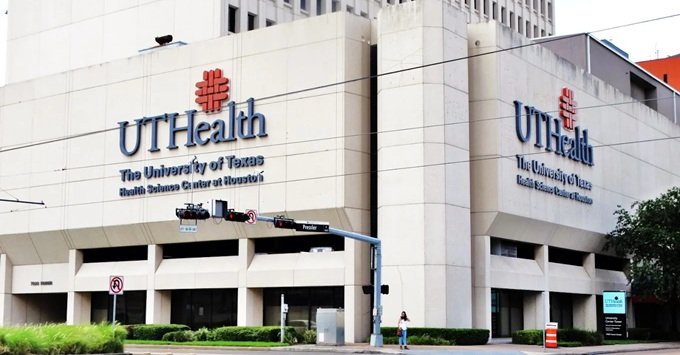
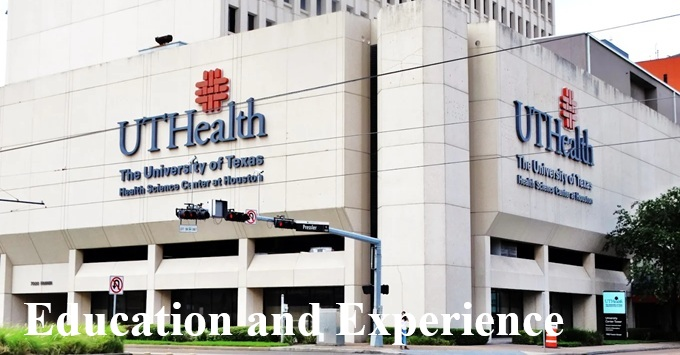
Added 'Contact' and 'Services' pages; Removed 'Contact Us' and releted chevrons from home page; Added text to 'University of Texas' image;

Changed region(s): [[0.0309, 0.8366, 0.8338, 0.9606]]

diff --git a/services.html b/services.html
@@ -14,8 +14,6 @@
     </head>
 
     <body onload="initializePage()">
-
-    <body onload="initializePage()">
         <div class="nav-bar">
             <nav class="navbar navbar-expand-lg bg-light" style="padding: 8px 15% 8px 10%">
                 <div class="container-fluid">
@@ -93,50 +91,78 @@
             </nav>
         </div>
 
-        <div class="px-4 pt-3 py-1 my-1 text-center">
-            <img src="./Images/UnivOfTexas.jpg" width=100%; alt="University of Texas Health Science Center">
+        <div class="col-lg-10 mx-auto">
+
+            <div class="px-4 pt-3 py-1 my-1 text-center">
+                <img src="./Images/Services.jpg" width=90%; alt="Services Offered">
+            </div>
+
+            <br>
+            <h1 class="px-3 pt-3 py-1 my-1">Our Services include</h1>
+            <ul>
+                <li>
+                    <b>Medication Management</b><br>
+                    Evaluation, diagnosis, and ongoing management of psychiatric medications tailored to your unique needs.
+                </li>
+
+                <br>
+
+                <li>
+                    <b>ADHD Evaluation & Treatment</b><br>
+                    Thorough ADHD assessments. Treatment includes medication options, behavioral planning, and lifestyle structure coaching.
+                </li>
+
+                <br>
+
+                <li>
+                    <b>Anxiety Disorders</b><br>
+                    We treat generalized anxiety, panic disorder, social anxiety, and PTSD-related anxiety. Treatment combines medication support, coping strategies, and functional improvement.
+                </li>
+
+                <br>
+
+                <li>
+                    <b>Depression & Mood Disorders</b><br>
+                    Support for major depressive disorder, persistent depressive disorder, postpartum depression, and seasonal depression, including medication and lifestyle guidance.
+                </li>
+
+                <br>
+
+                <li>
+                    <b>Bipolar Disorder</b><br>
+                    Evidence-based mood stabilization, monitoring, safety planning, and structured follow-ups.
+                </li>
+
+                <br>
+
+                <li>
+                    <b>Trauma & PTSD</b><br>
+                    Grounded and compassionate trauma care with medication support and coping skills development.
+                </li>
+
+                <br>
+
+                <li>
+                    <b>Insomnia & Sleep Disorders</b><br>
+                    Evaluation of underlying causes and tailored treatment plans to restore healthy sleep.
+                </li>
+
+                <br>
+
+                <li>
+                    <b>Telepsychiatry</b><br>
+                    HIPAA-compliant telemedicine accessible from your phone or laptop.
+                </li>
+            </ul>
         </div>
-        
+
+        <br>
         <hr style="margin-left:5%" width="90%">
-
-        <section class="two-column">
-            <div class="column-one">
-                <img   src="./Images/Ngozi.jpg" width="100%;" alt="Ngozi Kalu">
-            </div>
-            <div class="column-two">
-                <h2><b>About</b></h2>
-                Ngozi Kalu, PMHNP-BC, AGNP-C, is a board-certified Psychiatric Mental Health and Adult-Geriatric Nurse Practitioner 
-                with over 10 years of nursing experience, serving clients across the lifespan. She provides compassionate, evidence-based 
-                mental health care, helping individuals regain balance, clarity, and confidence in their daily lives. Ngozi welcomes both 
-                local and virtual patients into her practice, where collaboration is central to achieving the best possible healthcare outcomes.
-                She specializes in the treatment of anxiety, depression, ADHD, trauma-related conditions, sleep disorders, and other mental 
-                health concerns. 
-                <br><br>
-                Ngozi works closely with clients and their families to develop personalized treatment plans that align with 
-                each individual’s goals and values. Her approach integrates comprehensive psychiatric evaluations, thoughtful medication 
-                management, and supportive counseling to help clients feel better, think clearly, and live with purpose. She believes that 
-                true healing occurs when care is collaborative, respectful, and accessible.
-                <br><br>
-                <h2><b>Education</b></h2>
-                Ngozi holds a Post-Graduate Certificate in Psychiatric/Mental Health Nursing from Wilkes University, Wilkes-Barre, Pennsylvania. 
-                She earned her Master of Science in Nursing as an Adult-Geriatric Nurse Practitioner from the University of Texas Health Science 
-                Center in Houston, Texas, and her Bachelor of Science in Nursing from the University of Texas at Arlington. She also obtained her 
-                Associate Degree in Nursing from Lone Star College, Cypress, Texas. In addition to her clinical training, Ngozi holds a 
-                Graduate Certificate in Human Resources Management and a Master of Business Administration (MBA) from Westminster College 
-                in Salt Lake City, Utah, which strengthens her leadership, organizational, and patient&#8209;centered care delivery skills.
-                <br><br>
-                <h2><b>Personal Life</b></h2>
-                Outside of her professional life, Ngozi enjoys taking morning walks with her husband and spending quality time with her family. 
-                She values balance, wellness, and meaningful connections&#8209;principles that also guide her approach to patient care.
-
-            </div>
-        </section>
-
 
         <footer class="py-3 my-4">
             <ul class="nav justify-content-center border-bottom pb-3 mb-3">
                 <li class="nav-item"><a href="index.html" class="nav-link px-2 text-body-secondary">Home</a></li>
-                <li class="nav-item"><a href="services.html" class="nav-link px-2 text-body-secondary">Services</a></li>
+                <li class="nav-item"><a href="#" class="nav-link px-2 text-body-secondary">Services</a></li>
                 <li>
                     <a href="contact.html" class="btn btn-primary">Contact</a>
                 </li>

diff --git a/contact.html b/contact.html
@@ -14,8 +14,6 @@
     </head>
 
     <body onload="initializePage()">
-
-    <body onload="initializePage()">
         <div class="nav-bar">
             <nav class="navbar navbar-expand-lg bg-light" style="padding: 8px 15% 8px 10%">
                 <div class="container-fluid">
@@ -93,52 +91,42 @@
             </nav>
         </div>
 
-        <div class="px-4 pt-3 py-1 my-1 text-center">
-            <img src="./Images/UnivOfTexas.jpg" width=100%; alt="University of Texas Health Science Center">
+        <div class="col-lg-10 mx-auto">
+
+            <div class="px-4 pt-3 py-1 my-1 text-center">
+                <img src="./Images/ContactUs.jpg" width=90%; alt="Contact Us">
+            </div>
+
+            <br>
+            <ul>
+                <li>
+                    <b>Office (Houston/Katy)</b>: Evaluation, diagnosis, and ongoing management of psychiatric medications tailored to your unique needs.
+                </li>
+
+                <br>
+
+                <li>
+                    <b>Email:</b> myhealth@t-vcare.com
+                </li>
+
+                <br>
+
+                <li>
+                    <b>Website:</b> <a>www.t-vcare.com</a>
+                </li>
+
+            </ul>
         </div>
-        
+
+        <br>
         <hr style="margin-left:5%" width="90%">
-
-        <section class="two-column">
-            <div class="column-one">
-                <img   src="./Images/Ngozi.jpg" width="100%;" alt="Ngozi Kalu">
-            </div>
-            <div class="column-two">
-                <h2><b>About</b></h2>
-                Ngozi Kalu, PMHNP-BC, AGNP-C, is a board-certified Psychiatric Mental Health and Adult-Geriatric Nurse Practitioner 
-                with over 10 years of nursing experience, serving clients across the lifespan. She provides compassionate, evidence-based 
-                mental health care, helping individuals regain balance, clarity, and confidence in their daily lives. Ngozi welcomes both 
-                local and virtual patients into her practice, where collaboration is central to achieving the best possible healthcare outcomes.
-                She specializes in the treatment of anxiety, depression, ADHD, trauma-related conditions, sleep disorders, and other mental 
-                health concerns. 
-                <br><br>
-                Ngozi works closely with clients and their families to develop personalized treatment plans that align with 
-                each individual’s goals and values. Her approach integrates comprehensive psychiatric evaluations, thoughtful medication 
-                management, and supportive counseling to help clients feel better, think clearly, and live with purpose. She believes that 
-                true healing occurs when care is collaborative, respectful, and accessible.
-                <br><br>
-                <h2><b>Education</b></h2>
-                Ngozi holds a Post-Graduate Certificate in Psychiatric/Mental Health Nursing from Wilkes University, Wilkes-Barre, Pennsylvania. 
-                She earned her Master of Science in Nursing as an Adult-Geriatric Nurse Practitioner from the University of Texas Health Science 
-                Center in Houston, Texas, and her Bachelor of Science in Nursing from the University of Texas at Arlington. She also obtained her 
-                Associate Degree in Nursing from Lone Star College, Cypress, Texas. In addition to her clinical training, Ngozi holds a 
-                Graduate Certificate in Human Resources Management and a Master of Business Administration (MBA) from Westminster College 
-                in Salt Lake City, Utah, which strengthens her leadership, organizational, and patient&#8209;centered care delivery skills.
-                <br><br>
-                <h2><b>Personal Life</b></h2>
-                Outside of her professional life, Ngozi enjoys taking morning walks with her husband and spending quality time with her family. 
-                She values balance, wellness, and meaningful connections&#8209;principles that also guide her approach to patient care.
-
-            </div>
-        </section>
-
 
         <footer class="py-3 my-4">
             <ul class="nav justify-content-center border-bottom pb-3 mb-3">
                 <li class="nav-item"><a href="index.html" class="nav-link px-2 text-body-secondary">Home</a></li>
-                <li class="nav-item"><a href="services.html" class="nav-link px-2 text-body-secondary">Services</a></li>
+                <li class="nav-item"><a href="#" class="nav-link px-2 text-body-secondary">Services</a></li>
                 <li>
-                    <a href="contact.html" class="btn btn-primary">Contact</a>
+                    <a href="#" class="btn btn-primary">Contact</a>                    
                 </li>
             </ul>
             <p class="text-center text-body-secondary">© <span id="dateYear"></span> Tru-Value Care, LLC</p>

diff --git a/index.html b/index.html
@@ -40,7 +40,7 @@
                                 <a class="nav-link active" aria-current="page" href="#">Home</a>
                             </li>
                             <li class="nav-item">
-                                <a class="nav-link" aria-current="page" href="#">Services</a>
+                                <a class="nav-link" aria-current="page" href="services.html">Services</a>
                             </li>
                             <li class="nav-item dropdown">
                                 <a
@@ -83,7 +83,7 @@
                                 </ul>
                             </li>
                             <li>
-                                <button type="button" class="btn btn-primary">Contact</button>
+                                <a href="contact.html" class="btn btn-primary">Contact</a>
                             </li>
                         </ul>
                     </div>
@@ -93,12 +93,15 @@
 
         <div class="Hero=Section">
             <div class="px-4 pt-3 py-1 my-1 text-center">
-                <h1 class="display-5 fw-bold text-body-emphasis">Where Compassion Meets Clinical Excellence</h1>
-                <div class="col-lg-6 mx-auto">
-                    <p class="lead mb-4">
+                <h1 class="display-6 fw-bold text-body-emphasis">Supporting Individials, Families, and Communities Through Quality Mental Health Care</h1>
+                <div class="col-lg-10 mx-auto">
+                    <hr>
+                    <h2>Where Compassion Meets Clinical Excellence</h2>
+                    <p class="lead mb-3">
+                        Board-certified PMHNP-led Psychiatric/Mental Health Care
+                        
                         <hr>
-                        Board-certified PMHNP-led Psychiatric/Mental Health Care<br>
-                        <hr>
+
                         Treatment includes medication management, treatment for ADHD, anxiety, depression, 
                         trauma, bipolar disorders, insomnia, and geriatric mental health.<br>
                         Services are available both in-person and via telehealth.
@@ -178,11 +181,6 @@
                             Paragraph of text beneath the heading to explain the heading. We'll add onto it with another
                             sentence and probably just keep going until we run out of words.
                         </p>
-
-                        <a href="#" class="icon-link">
-                            Contact Us
-                            <img src="./Images/chevron-double-right.svg" alt="chevron" />
-                        </a>
                     </div>
 
                     <!-- Column 2 -->
@@ -198,22 +196,19 @@
                             Another paragraph of text for the second feature section. This can be used for services,
                             product descriptions, or any content you want to display side-by-side.
                         </p>
-
-                        <a href="#" class="icon-link">
-                            Contact Us
-                            <img src="./Images/chevron-double-right.svg" alt="chevron" />
-                        </a>
                     </div>
                 </div>
             </div>
         </div>
 
+        <hr style="margin-left:5%" width="90%">
+
         <footer class="py-3 my-4">
             <ul class="nav justify-content-center border-bottom pb-3 mb-3">
                 <li class="nav-item"><a href="#" class="nav-link px-2 text-body-secondary">Home</a></li>
-                <li class="nav-item"><a href="#" class="nav-link px-2 text-body-secondary">Services</a></li>
+                <li class="nav-item"><a href="services.html" class="nav-link px-2 text-body-secondary">Services</a></li>
                 <li>
-                    <button type="button" class="btn btn-primary">Contact</button>
+                    <a href="contact.html" class="btn btn-primary">Contact</a>
                 </li>
             </ul>
             <p class="text-center text-body-secondary">© <span id="dateYear"></span> Tru-Value Care, LLC</p>

diff --git a/our_practice.html b/our_practice.html
@@ -109,6 +109,8 @@
                 <img   src="./Images/Ngozi.jpg" width="100%;" alt="Ngozi Kalu">
             </div>
             <div class="column-two">
+                <h2><b>About</b></h2>
+
                 Ngozi Kalu, PMHNP-BC, AGNP-C, is a board-certified Psychiatric Mental Health and Adult-Geriatric Nurse Practitioner 
                 with over 10 years of nursing experience, serving clients across the lifespan. She provides compassionate, evidence-based 
                 mental health care, helping individuals regain balance, clarity, and confidence in their daily lives. Ngozi welcomes both 
@@ -121,13 +123,18 @@
                 management, and supportive counseling to help clients feel better, think clearly, and live with purpose. She believes that 
                 true healing occurs when care is collaborative, respectful, and accessible.
                 <br><br>
+
+                <h2><b>Education</b></h2>
                 Ngozi holds a Post-Graduate Certificate in Psychiatric/Mental Health Nursing from Wilkes University, Wilkes-Barre, Pennsylvania. 
                 She earned her Master of Science in Nursing as an Adult-Geriatric Nurse Practitioner from the University of Texas Health Science 
                 Center in Houston, Texas, and her Bachelor of Science in Nursing from the University of Texas at Arlington. She also obtained her 
                 Associate Degree in Nursing from Lone Star College, Cypress, Texas. In addition to her clinical training, Ngozi holds a 
                 Graduate Certificate in Human Resources Management and a Master of Business Administration (MBA) from Westminster College 
                 in Salt Lake City, Utah, which strengthens her leadership, organizational, and patient&#8209;centered care delivery skills.
-                <br><br>Outside of her professional life, Ngozi enjoys taking morning walks with her husband and spending quality time with her family. 
+                <br><br>
+                
+                <h2><b>Personal Life</b></h2>
+                Outside of her professional life, Ngozi enjoys taking morning walks with her husband and spending quality time with her family. 
                 She values balance, wellness, and meaningful connections&#8209;principles that also guide her approach to patient care.
 
             </div>
@@ -135,10 +142,10 @@
 
         <footer class="py-3 my-4">
             <ul class="nav justify-content-center border-bottom pb-3 mb-3">
-                <li class="nav-item"><a href="#" class="nav-link px-2 text-body-secondary">Home</a></li>
-                <li class="nav-item"><a href="#" class="nav-link px-2 text-body-secondary">Services</a></li>
+                <li class="nav-item"><a href="index.html" class="nav-link px-2 text-body-secondary">Home</a></li>
+                <li class="nav-item"><a href="services.html" class="nav-link px-2 text-body-secondary">Services</a></li>
                 <li>
-                    <button type="button" class="btn btn-primary">Contact</button>
+                    <a href="contact.html" class="btn btn-primary">Contact</a>
                 </li>
             </ul>
             <p class="text-center text-body-secondary">© <span id="dateYear"></span> Tru-Value Care, LLC</p>
